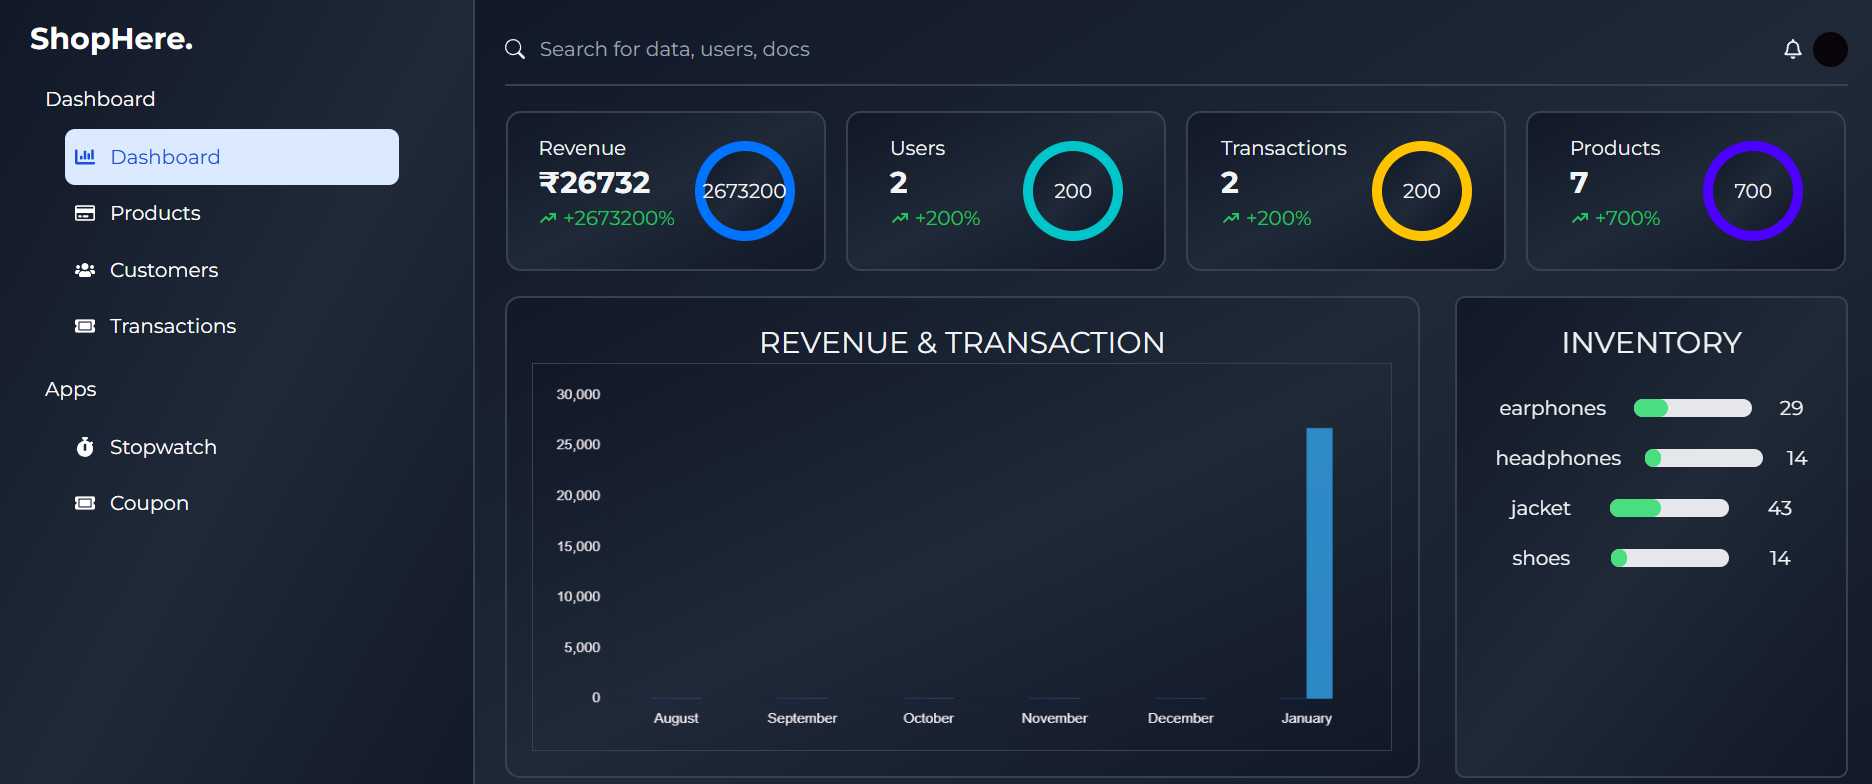
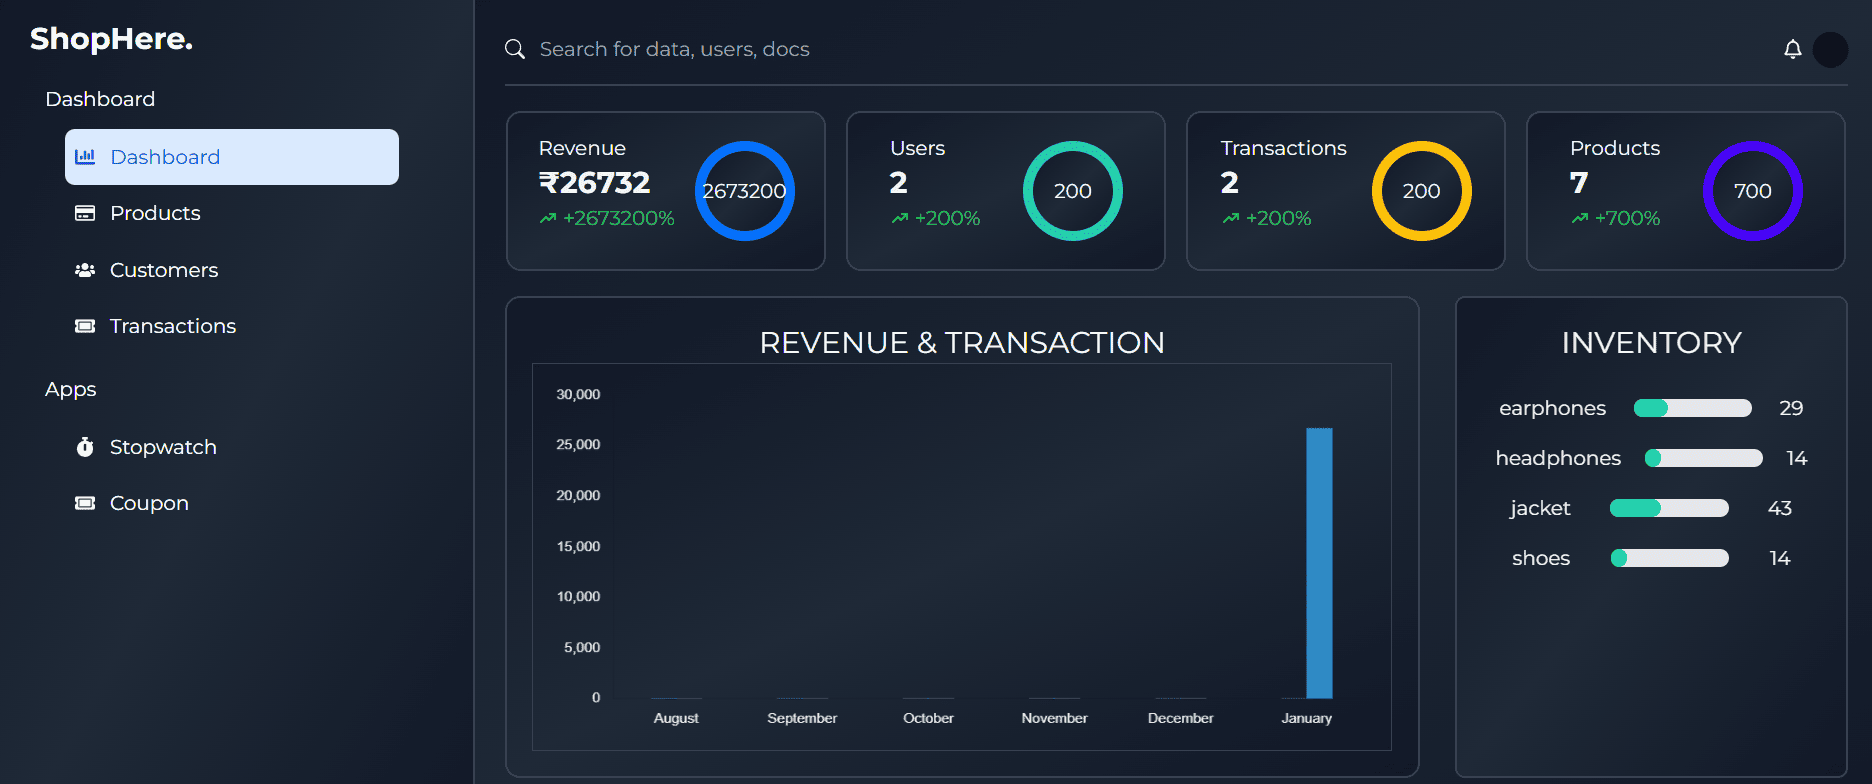
fix styling

diff --git a/ecommerce-frontend/src/pages/Productdetails.tsx b/ecommerce-frontend/src/pages/Productdetails.tsx
@@ -9,24 +9,22 @@ import { CartItem } from "../types/types";
 import { addToCart } from "../redux/reducer/cartReducer";
 
 const Productdetails = () => {
+  const { cartItems: CART } = useSelector(
+    (state: RootState) => state.cartReducer
+  );
 
-    const { cartItems: CART } = useSelector(
-        (state: RootState) => state.cartReducer
-      );
-    
-      const dispatch = useDispatch();
+  const dispatch = useDispatch();
 
-    const addToCartHandler = (cartItem: CartItem) => {
+  const addToCartHandler = (cartItem: CartItem) => {
+    const index = CART.findIndex((i) => i.productId === cartItem.productId);
 
-        const index=CART.findIndex((i)=>i.productId===cartItem.productId);
-    
-        if(index!=-1) return toast.success("Already in cart");
-    
-        if (cartItem.stock < 1) return toast.error("Out of Stock");
-    
-        dispatch(addToCart(cartItem));
-        toast.success("Added to cart");
-      };
+    if (index != -1) return toast.success("Already in cart");
+
+    if (cartItem.stock < 1) return toast.error("Out of Stock");
+
+    dispatch(addToCart(cartItem));
+    toast.success("Added to cart");
+  };
 
   const { id } = useParams();
 
@@ -42,19 +40,31 @@ const Productdetails = () => {
       <Loader />
     </div>
   ) : (
-    <div className="bg-gray-100 h-[100vh] w-[100vw] pt-10">
+    <div className="bg-gray-100 w-[100vw] pt-10">
       <div className="flex flex-col md:flex-row">
-          <img className="object-contain max-h-[50vh] md:w-1/2" src={data?.product.photo} alt="" />
+        <img
+          className="object-contain max-h-[50vh] md:w-1/2"
+          src={data?.product.photo}
+          alt=""
+        />
         <div className="mt-4 flex flex-col px-10 gap-5 md:w-1/2 justify-center">
-          <h1 className="text-xl md:text-2xl">{data?.product.name}
-          </h1>
+          <h1 className="text-xl md:text-2xl">{data?.product.name}</h1>
           <p className="font-semibold md:text-xl">₹{data?.product.price}</p>
-          <button className="bg-black md:text-xl rounded-xl px-3 text-white" onClick={()=>addToCartHandler({    productId: data?.product._id!,
-    photo: data?.product.photo!,
-    name:data?.product.name!,
-    price: data?.product.price!,
-    quantity:1,
-    stock: data?.product.stock!})}>Add to Cart</button>
+          <button
+            className="bg-black md:text-xl rounded-xl px-3 text-white"
+            onClick={() =>
+              addToCartHandler({
+                productId: data?.product._id!,
+                photo: data?.product.photo!,
+                name: data?.product.name!,
+                price: data?.product.price!,
+                quantity: 1,
+                stock: data?.product.stock!,
+              })
+            }
+          >
+            Add to Cart
+          </button>
         </div>
       </div>
     </div>

diff --git a/ecommerce-frontend/src/components/CartItemcard.tsx b/ecommerce-frontend/src/components/CartItemcard.tsx
@@ -20,22 +20,22 @@ const CartItems = ({
     <div className="w-full flex flex-col sm:flex-row text-sm md:text-base justify-between md:justify-around items-center gap-5">
       <div className="w-2/3">
         <div className="flex justify-center w-full">
-        <img className="max-h-[150px]" src={photo} alt={name} />
+          <img className="max-h-[150px]" src={photo} alt={name} />
         </div>
-      <article>
-        <p className="">{name}</p>
-        <span>₹{price}</span>
-      </article>
+        <article className="w-full text-center">
+          <p className="">{name}</p>
+          <span>₹{price}</span>
+        </article>
       </div>
 
-      <div className="relative sm:w-1/3">
+      <div className="flex gap-2 sm:w-1/3">
         <div className=" flex justify-between max-w-[150px] bg-white px-3 rounded-lg gap-5">
           <button onClick={() => decrementHandler(cartItem)}>-</button>
           <p className="text-center border-2 border-white">{quantity}</p>
           <button onClick={() => incrementHandler(cartItem)}>+</button>
         </div>
 
-        <button className=" -top-5 lg:-right[6px] lg:top-[5px] right-0 absolute" onClick={() => removeHandler(productId)}>
+        <button className="" onClick={() => removeHandler(productId)}>
           <FaTrash />
         </button>
       </div>
